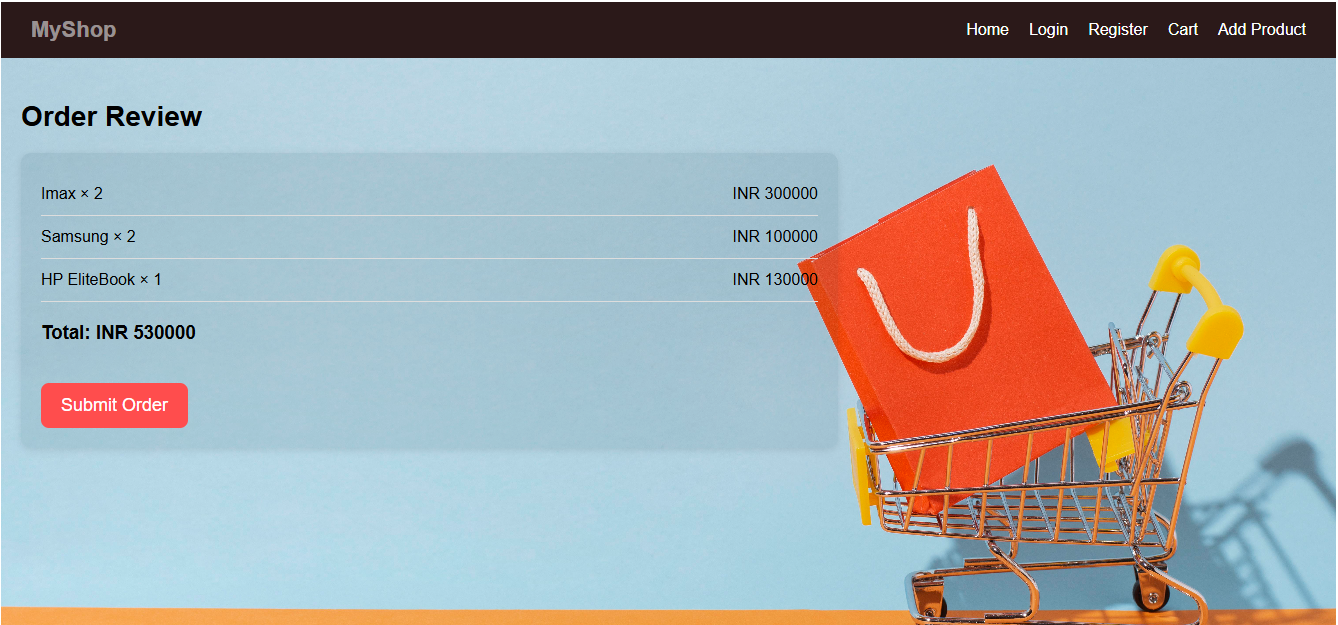
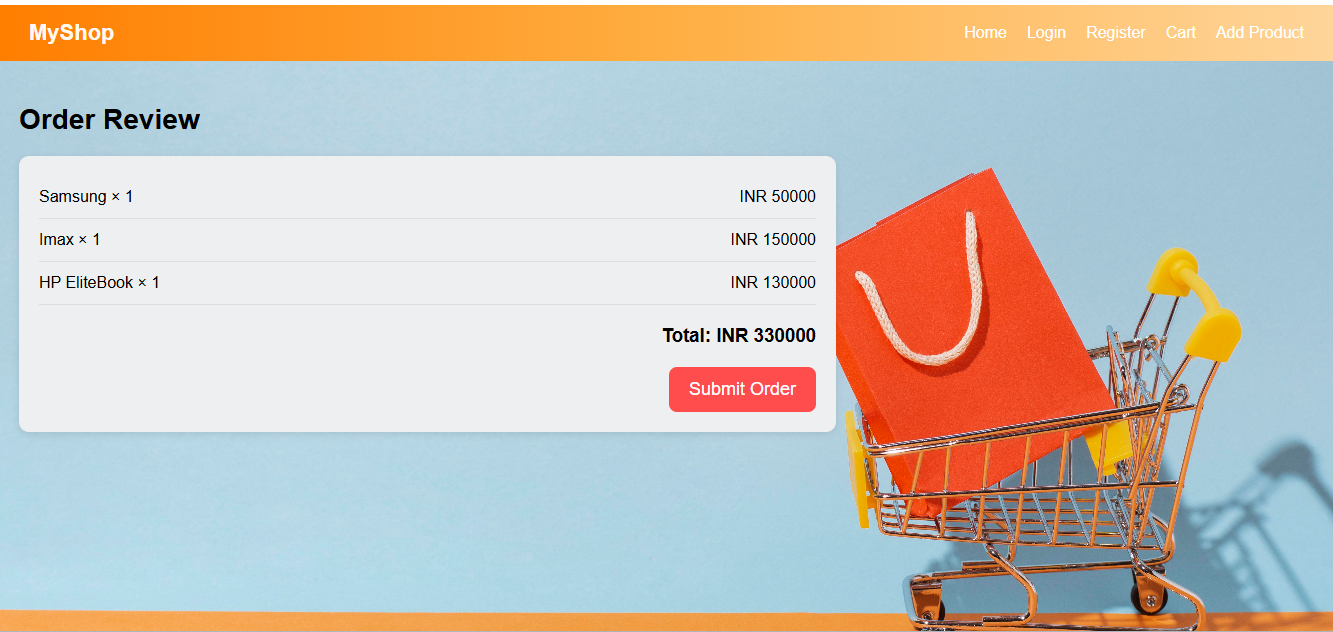
Design and Models Updated

diff --git a/src/pages/Cart.tsx b/src/pages/Cart.tsx
@@ -4,18 +4,9 @@ import { useHistory } from "react-router-dom";
 import "../css/Cart.css";
 
 /** Cart item structure */
-interface CartItem {
-  productId: number;
-  title: string;
-  price: number;
-  qty: number;
-}
 
-/** Checkout API response */
-interface CheckoutResponse {
-  message?: string;
-  user?: Record<string, unknown>;
-}
+import { CartItem } from "../types/CartItem";
+import { CheckoutResponse } from "../types/CheckoutResponse";
 
 const Cart: React.FC = () => {
   const history = useHistory();
@@ -104,12 +95,13 @@ const Cart: React.FC = () => {
             </button>
           </div>
         ))}
-      </div>
 
-      <div className="cart-checkout-wrapper">
-        <button className="cart-checkout-btn" onClick={checkout}>
-          Checkout
-        </button>
+
+        <div className="cart-checkout-wrapper">
+          <button className="cart-checkout-btn" onClick={checkout}>
+            Checkout
+          </button>
+        </div>
       </div>
     </div>
   );

diff --git a/src/css/OrderReview.css b/src/css/OrderReview.css
@@ -33,7 +33,7 @@
 
 .order-box {
   width: 60%;
-  background: hwb(197 2% 77% / 0.085);
+  background: hwb(200 93% 6%);
   padding: 20px;
   border-radius: 10px;
   box-shadow: 0 2px 8px rgba(0, 0, 0, 0.1);
@@ -51,11 +51,35 @@
 }
 
 .order-total {
+  display: flex;
+ justify-content: flex-end;
+  margin-top: 20px;
+  font-weight: 700;
+  gap: 12px;
+}
+
+/* push the total value to the far right */
+.order-total .value {
+  margin-left: auto;
+  text-align: right;
+  min-width: 80px;
+}
+
+/* ensure item values remain right-aligned */
+.order-item .item-value {
+  text-align: right;
+  min-width: 80px;
+}
+
+/* fallback: push single button/value to the end */
+.order-actions {
+  display: flex;
+  justify-content: flex-end;
   margin-top: 20px;
 }
 
 .order-submit-btn {
-  margin-top: 20px;
+  /* keep visual styles, remove justify-content */
   background-color: #ff4d4d;
   color: white;
   padding: 12px 20px;

diff --git a/src/pages/Home.tsx b/src/pages/Home.tsx
@@ -6,11 +6,7 @@ import "../css/Home.css";
 /* ===============================
    TYPES
 ================================ */
-interface Product {
-  id: number;
-  title: string;
-  price: number;
-}
+import { Product } from "../types/product";
 
 const Home: React.FC = () => {
   const [products, setProducts] = useState<Product[]>([]);
@@ -29,9 +25,11 @@ const Home: React.FC = () => {
   /* -----------------------------
      Add to cart
   ----------------------------- */
-  const addToCart = (p: Product): void => {
-    const cart: any[] = JSON.parse(localStorage.getItem("cart") || "[]");
 
+  const addToCart = (p: Product): void => {
+const cart: CartItem[] = JSON.parse(
+  localStorage.getItem("cart") || "[]"
+);
     const found = cart.find((it) => it.productId === p.id);
     if (found) {
       found.qty++;

diff --git a/src/css/Login.css b/src/css/Login.css
@@ -9,7 +9,7 @@
 
   padding: 150px;
 
-  /* 🔴 SAME background as Home */
+  /*  SAME background as Home */
   background-image: url("../assets/shopping-bag-cart.jpg");
   background-size: cover;
   background-position: center;
@@ -18,7 +18,7 @@
   position: relative;
 }
 
-/* 🔴 Overlay */
+/*  Overlay */
 .login-container::before {
   content: "";
   position: absolute;
@@ -37,7 +37,7 @@
   box-shadow: 0 2px 10px rgba(0, 0, 0, 0.15);
   text-align: center;
 
-  /* 🔴 keep above overlay */
+  /* keep above overlay */
   position: relative;
   z-index: 1;
 }

diff --git a/src/pages/OrderReview.tsx b/src/pages/OrderReview.tsx
@@ -61,11 +61,11 @@ const OrderReview: React.FC = () => {
         ))}
 
         <h3 className="order-total">Total: INR {total}</h3>
-
+        <div class="order-actions">
         <button className="order-submit-btn" onClick={submitOrder}>
           Submit Order
         </button>
-
+        </div>
         {message && (
           <p className="order-success-message">
             {message}

diff --git a/src/css/app.css b/src/css/app.css
@@ -3,8 +3,9 @@
   justify-content: space-between;
   align-items: center;
   padding: 15px 30px;  
-  background: #2b1919;
-  color: rgba(255, 255, 255, 0.527);
+  /* fallback */ background: #ff7e00;
+  background: linear-gradient(90deg, #ff7e00 0%, #ffae42 50%, #ffd59a 100%); /* orange gradient */
+  color: rgba(255,255,255,0.95);
 }
 
 .company-name {

diff --git a/src/css/Cart.css b/src/css/Cart.css
@@ -33,7 +33,7 @@
 
 .cart-box {
   width: 60%;
-  background-color:  hwb(197 2% 77% / 0.085);
+  background-color:  hwb(198 89% 7% / 0.884);
 
   border-radius: 10px;
   padding: 20px;
@@ -79,7 +79,7 @@
 
 .cart-checkout-wrapper {
   display: flex;
-  justify-content: flex-start;
+  justify-content: flex-end;
   margin-top: 20px;
 }
 

diff --git a/src/css/Home.css b/src/css/Home.css
@@ -65,7 +65,7 @@
   padding: 20px;
   border-radius: 10px;
   text-align: center;
-
+  
   /*  UPDATED: better contrast on image */
   box-shadow: 0 4px 12px rgba(0, 0, 0, 0.15);
 }

diff --git a/src/types/CartItem.ts b/src/types/CartItem.ts
@@ -1,0 +1,7 @@
+interface CartItem {
+  productId: number;
+  title: string;
+  price: number;
+  qty: number;
+}
+export { CartItem}

diff --git a/src/types/CheckoutResponse.ts b/src/types/CheckoutResponse.ts
@@ -1,0 +1,5 @@
+/** Checkout API response */
+interface CheckoutResponse {
+  message?: string;
+  user?: Record<string, unknown>;
+}

diff --git a/src/types/product.ts b/src/types/product.ts
@@ -1,0 +1,7 @@
+ interface Product {
+  id: number;
+  title: string;
+  price: number;
+}
+
+export{ Product }
